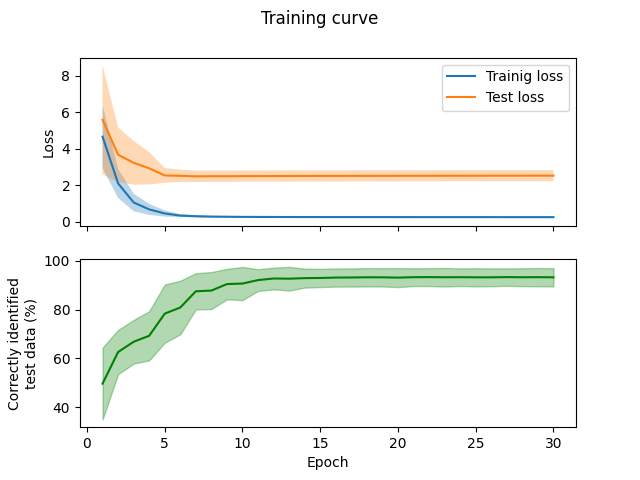
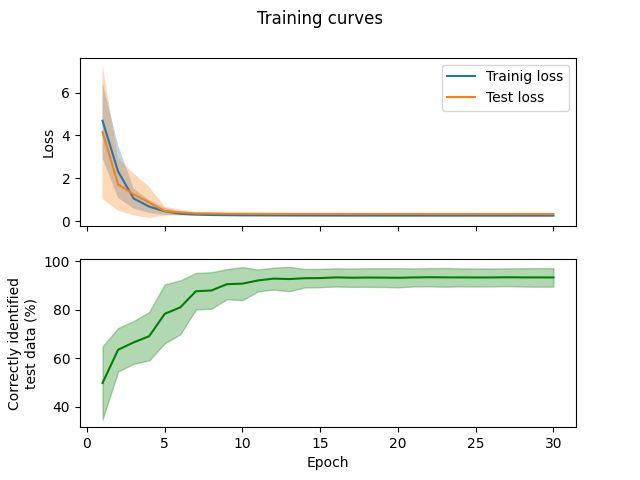
Fixed issue with cross entropy giving high test loss

diff --git a/modules/nn_functions.py b/modules/nn_functions.py
@@ -64,8 +64,17 @@ def cross_entropy(outputs, labels):
     The average cross entropy between the output values and the true labels
     """
 
-    probabilities = outputs[jnp.arange(outputs.shape[0]), labels]
-    return -jnp.mean(jnp.log(probabilities))
+    epsilon = 1e-12
+    outputs_clipped = jnp.clip(outputs, epsilon, 1 - epsilon)
+    labels_flat = labels.flatten()
+    
+    one_hot_labels = jax.nn.one_hot(labels_flat, num_classes=outputs_clipped.shape[1])
+    cross_entropy = -jnp.sum(one_hot_labels * jnp.log(outputs_clipped)) / outputs_clipped.shape[0]
+
+    # This version of cross entropy with an extra term doesn't seem to work properly and I'm yet to figure out why
+    # cross_entropy = -jnp.sum(one_hot_labels * jnp.log(outputs_clipped) + (1 - one_hot_labels) * jnp.log(1 - outputs_clipped)) / outputs_clipped.shape[0]
+
+    return cross_entropy
 
 
 @partial(jax.jit, static_argnames=['loss_func'])
@@ -210,7 +219,7 @@ def evaluate(params, inputs_test, labels_test, loss_func=cross_entropy):
     Parameters:
     params -- The parameters of the neural network.
     inputs_test -- The input data. (Test data)
-    labels_test -- The data labels. (Test data)
+    labels_test -- The data labels. (Test data).
     loss_func -- A function with which to calculate the loss with respect to.
 
     Return:
